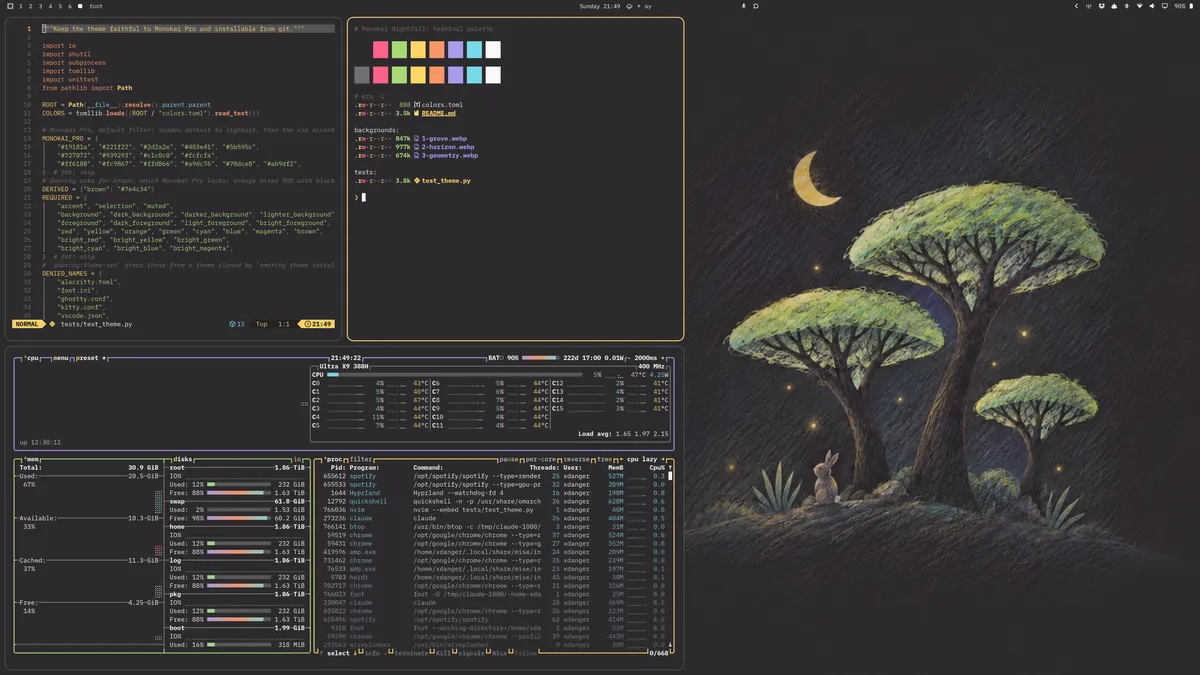
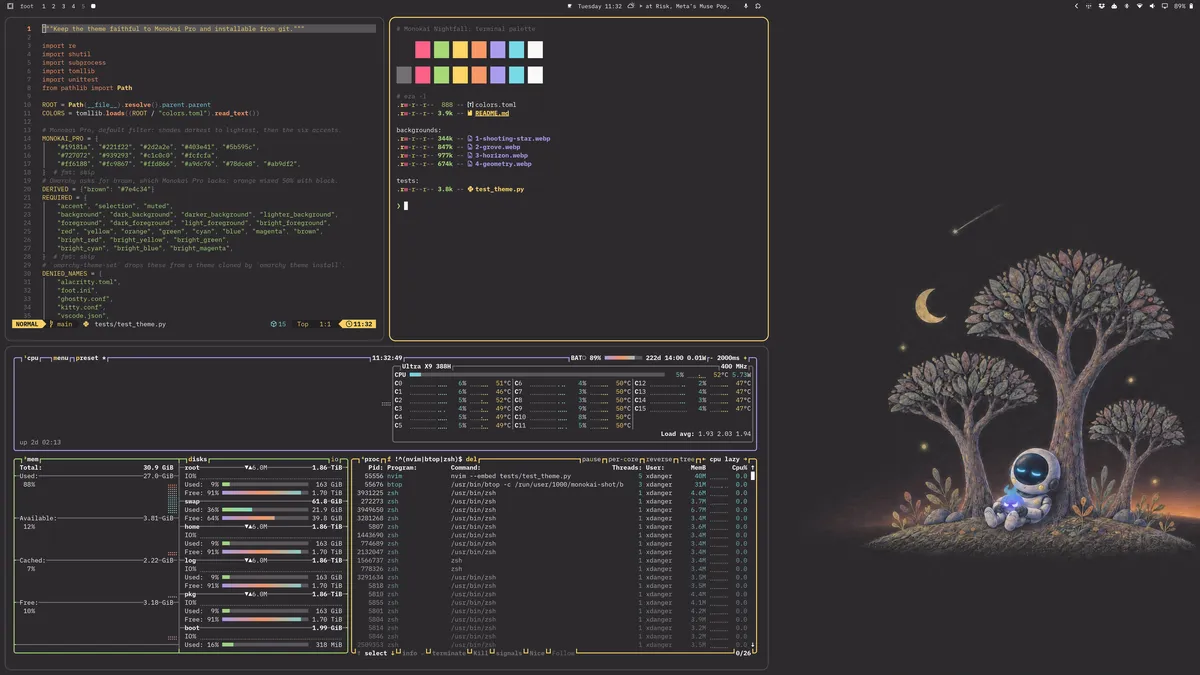
📝 docs(screenshots): retake with the default wallpaper
- :camera_flash: show the new default wallpaper on the 5K display, so the gallery matches what the theme sets
- :see_no_evil: limit btop's process list to the shot's own programs so no private commands appear

Claude-Session: https://claude.ai/code/session_01KcMBmdTUYPsxUBktRW77dF

diff --git a/README.md b/README.md
@@ -1,6 +1,6 @@
 # Monokai Nightfall for Omarchy
 
-![Monokai Nightfall on Omarchy: Neovim, a terminal and btop beside the pencil grove wallpaper](screenshots/desktop.webp)
+![Monokai Nightfall on Omarchy: Neovim, a terminal and btop beside the default wallpaper of Pululu dozing in the grove](screenshots/desktop.webp)
 
 Monokai Nightfall is an unofficial Omarchy theme, installed as
 `monokai-nightfall`. It uses the modern [Monokai Pro](https://monokai.pro/)
